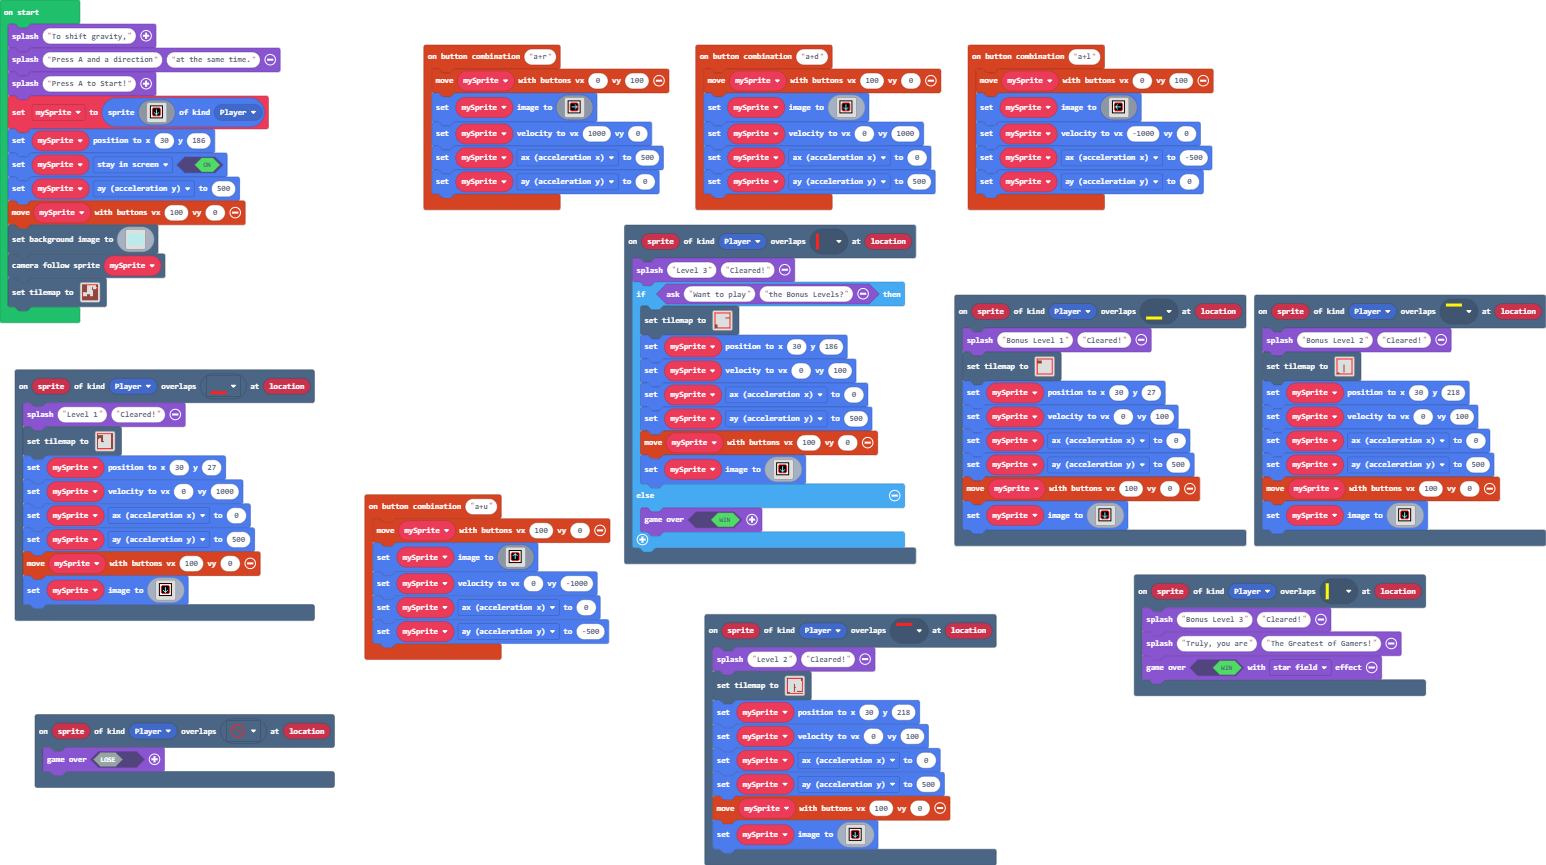
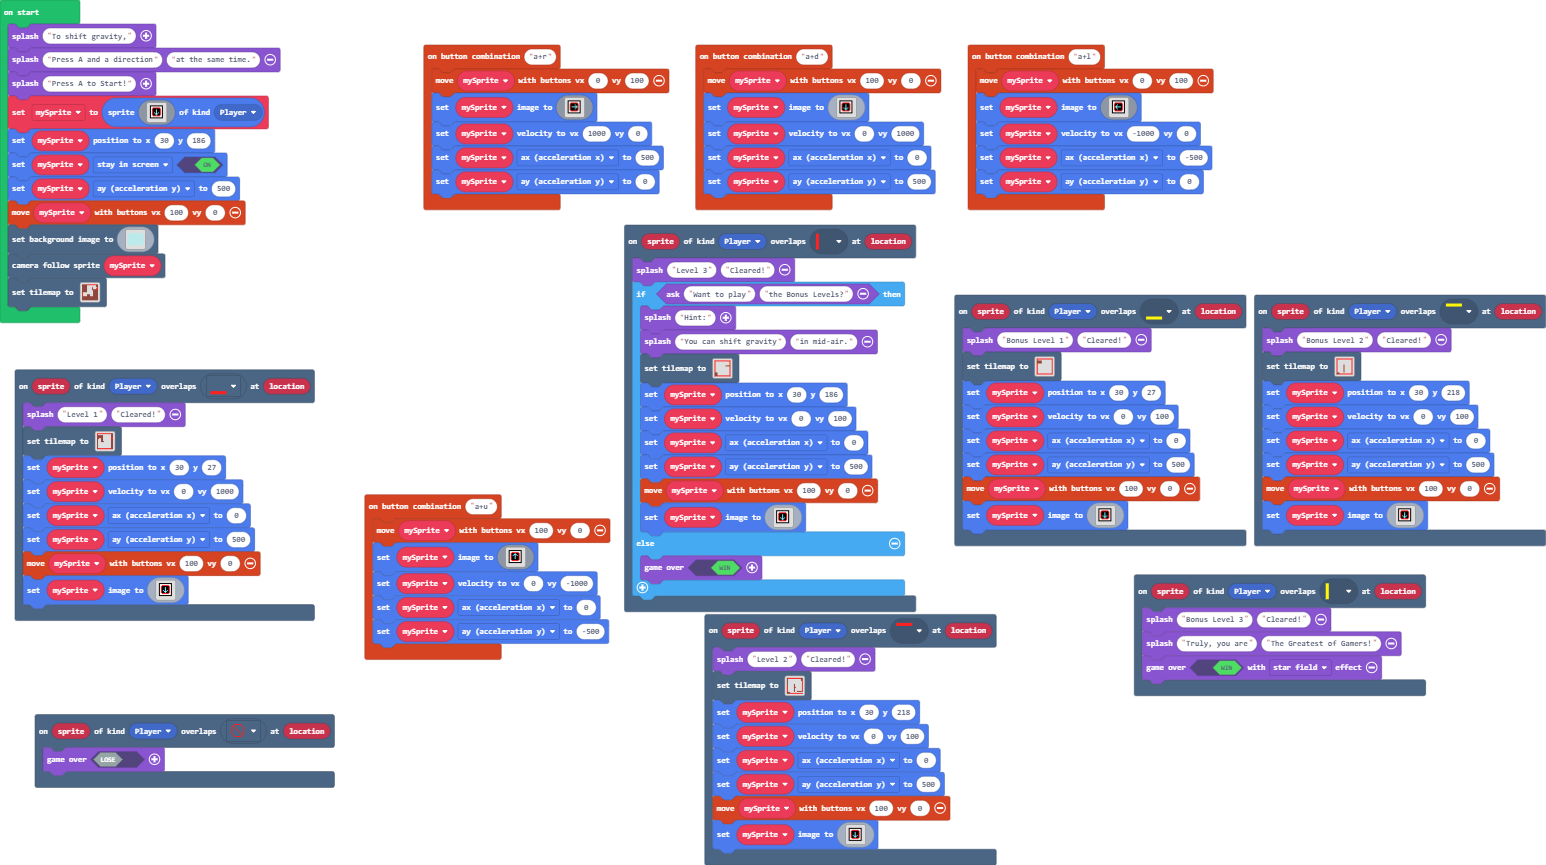
Update main.blocks, main.ts

Changed region(s): [[0.4036, 0.3434, 0.5899, 0.7179]]

diff --git a/main.ts b/main.ts
@@ -89,6 +89,8 @@ scene.onOverlapTile(SpriteKind.Player, myTiles.tile4, function (sprite, location
 scene.onOverlapTile(SpriteKind.Player, myTiles.tile8, function (sprite, location) {
     game.splash("Level 3", "Cleared!")
     if (game.ask("Want to play", "the Bonus Levels?")) {
+        game.splash("Hint:")
+        game.splash("You can shift gravity", "in mid-air.")
         tiles.setTilemap(tiles.createTilemap(hex`1000100002020202020202020202020202020202020000000000000000000000000000020200000000000000000000000000000202000000000000000000000000000002020000000000000000000000000003020200000000000000000000010101010102000000000000000000000000000002020000000000000000000000000000020200000000000000000000000000000202000000000000000000000000000002020000000000000000000000000000020200000000000000000000000000000201010100000000000000000000000002010101000000000000000000000000020101010000000000000000000000000201010102020202020202020202020202`, img`
             . . . . . . . . . . . . . . . . 
             . . . . . . . . . . . . . . . . 
